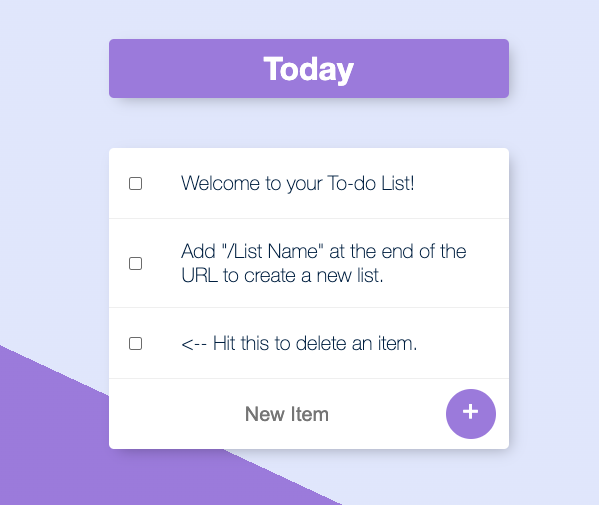
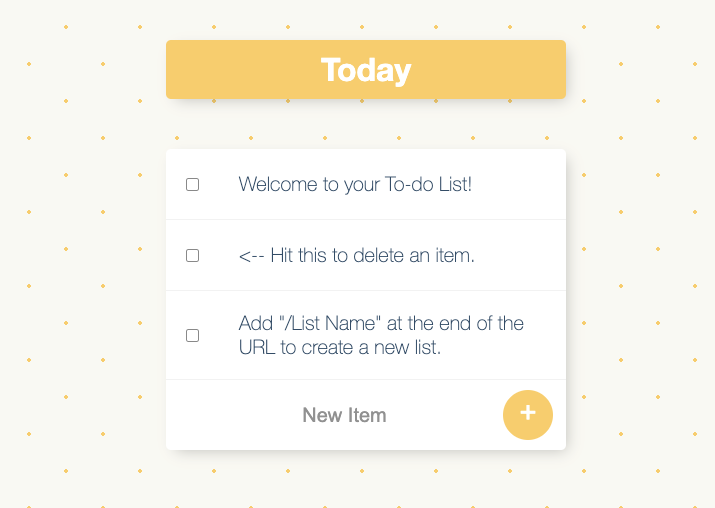
Update README.md and change background design

diff --git a/public/css/styles.css b/public/css/styles.css
@@ -1,6 +1,9 @@
 html {
-  background-color: #E4E9FD;
-  background-image: -webkit-linear-gradient(65deg, #A683E3 50%, #E4E9FD 50%);
+  background-color: #f9f8f2;
+  opacity: 0.8;
+  background-image:  radial-gradient(#f7ca45 1.85px, transparent 1.85px), radial-gradient(#f7ca45 1.85px, #f9f8f2 1.85px);
+  background-size: 74px 74px;
+  background-position: 0 0,37px 37px;
   min-height: 1000px;
   font-family: 'helvetica neue';
 }
@@ -19,7 +22,7 @@ h1 {
 }
 
 #heading {
-  background-color: #A683E3;
+  background-color: #f7ca45;
   text-align: center;
 }
 
@@ -36,7 +39,7 @@ h1 {
 
 input:checked+p {
   text-decoration: line-through;
-  text-decoration-color: #A683E3;
+  text-decoration-color: #f7ca45;
 }
 
 input[type="checkbox"] {
@@ -61,7 +64,7 @@ button {
   width: 50px;
   border-radius: 50%;
   border-color: transparent;
-  background-color: #A683E3;
+  background-color: #f7ca45;
   color: #fff;
   font-size: 30px;
   padding-bottom: 6px;
@@ -81,7 +84,7 @@ input[type="text"] {
 
 input[type="text"]:focus {
   outline: none;
-  box-shadow: inset 0 -3px 0 0 #A683E3;
+  box-shadow: inset 0 -3px 0 0 #f7ca45;
 }
 
 ::placeholder {

diff --git a/README.md b/README.md
@@ -1,8 +1,8 @@
 
-# To-Do List
+# Task Manager
 
-A to-do list to organize your tasks. This app is deployed on App Engine 
-on Google Cloud Platform and the database is deployed on MongoDB Atlas. 
+A to-do list manager to organize your tasks. It allows users to create, customize, and delete lists for more effective time management. 
+This app is deployed on App Engine on Google Cloud Platform and the database is deployed on MongoDB Atlas. 
 
 
 ## Link
